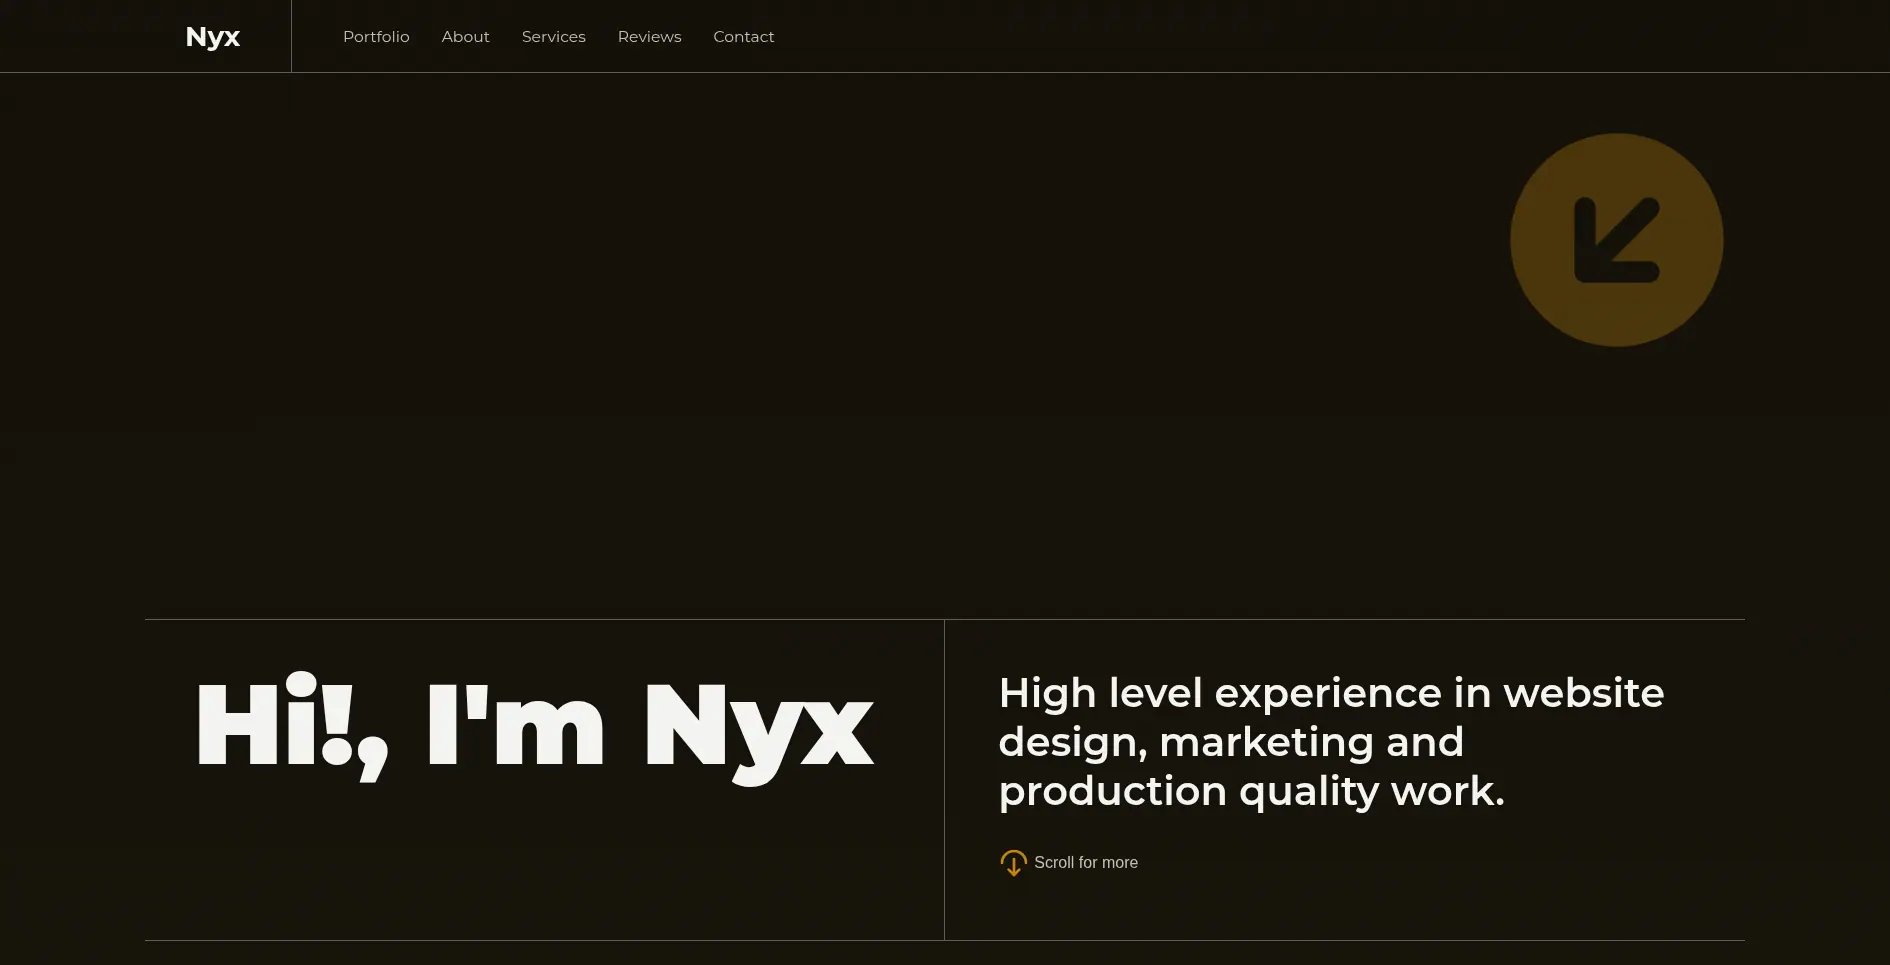
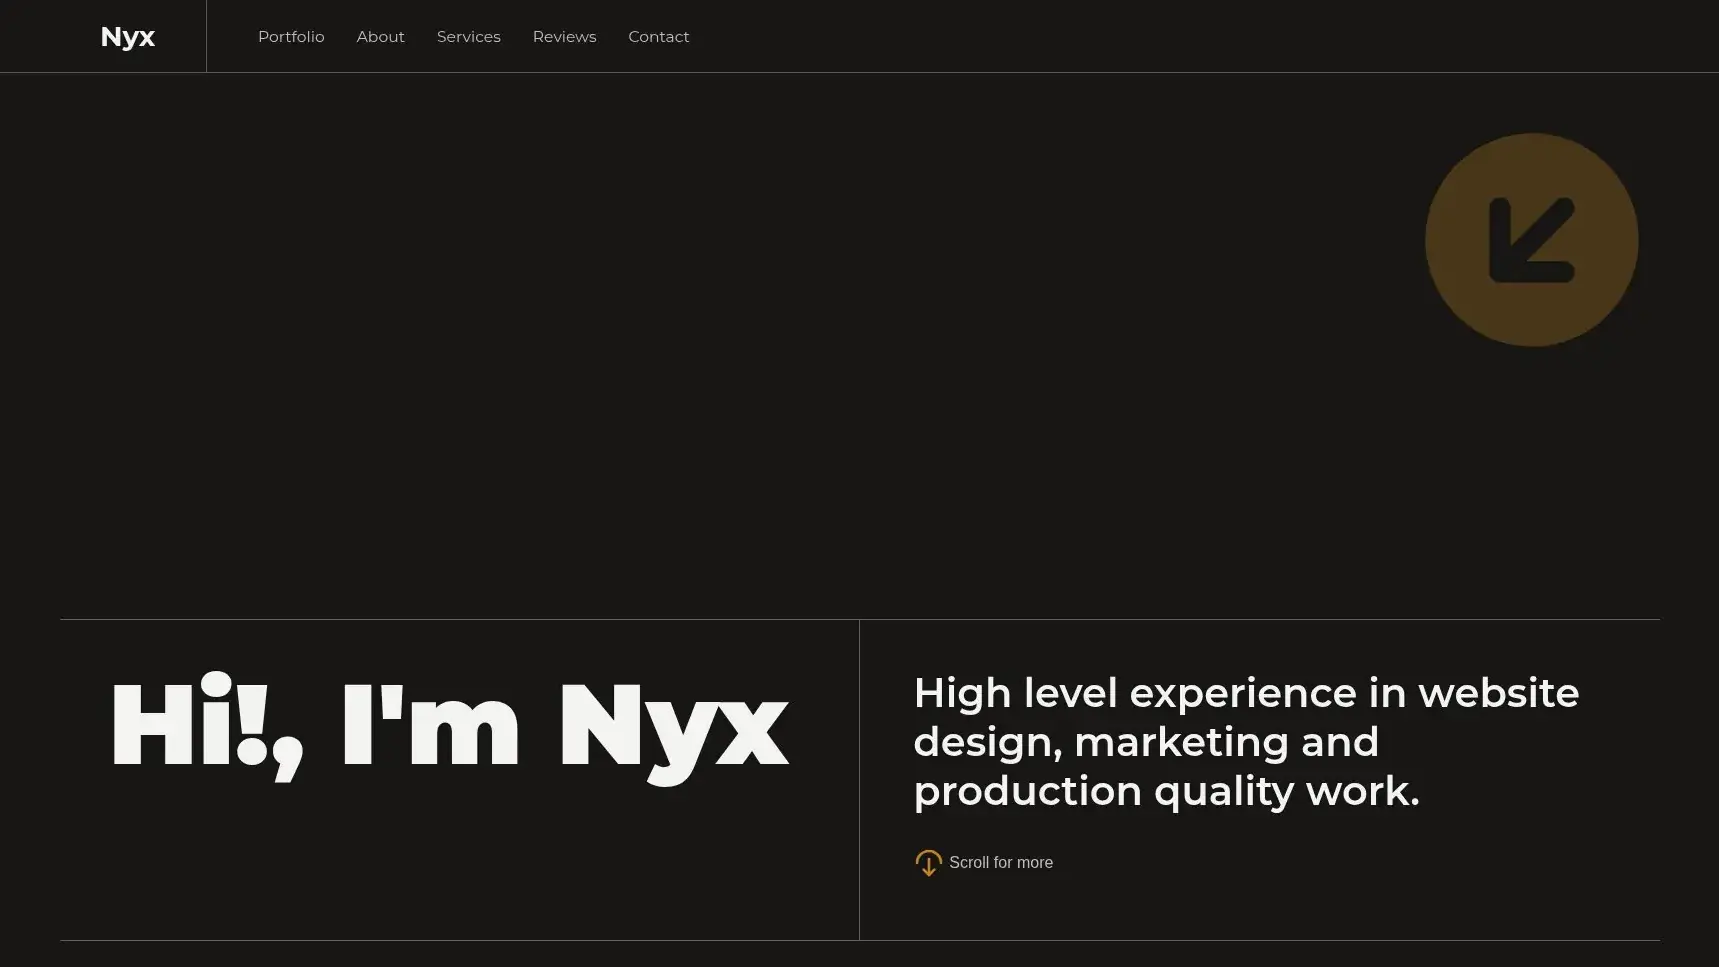
fix: revert template to website

diff --git a/src/content.config.ts b/src/content.config.ts
@@ -11,7 +11,6 @@ import {
   projectSchema,
   seoSchema,
   socialsSchema,
-  templatesSchema,
   toolsSchema,
   websitesSchema
 } from 'schema/index.ts'
@@ -38,13 +37,6 @@ const websitesCollection = defineCollection({
     base: './src/content/websites'
   }),
   schema: websitesSchema
-})
-const templatesCollection = defineCollection({
-  loader: glob({
-    pattern: '**/[^_]*.{md,mdx}',
-    base: './src/content/templates'
-  }),
-  schema: templatesSchema
 })
 const bioCollection = defineCollection({
   loader: glob({ pattern: '**/[^_]*.{md,mdx}', base: './src/content/bio' }),
@@ -77,7 +69,6 @@ export const collections = {
   hero: heroCollection,
   project: projectCollection,
   websites: websitesCollection,
-  templates: templatesCollection,
   bio: bioCollection,
   tools: toolsCollection,
   contact: contactCollection,

diff --git a/src/components/main/Hero/CarouselHero.tsx b/src/components/main/Hero/CarouselHero.tsx
@@ -49,7 +49,7 @@ export function CarouselHero({
                 />
 
                 <img
-                  className="aspect-auto w-full rounded-md object-cover opacity-80 transition-all delay-200 ease-in group-hover:opacity-100"
+                  className="aspect-16/9 w-full rounded-md object-cover opacity-90 transition-all delay-200 ease-in group-hover:opacity-100"
                   src={data.image.src}
                   alt={data.image.alt}
                   width={data.image.width}

diff --git a/src/content/bio/bio.md b/src/content/bio/bio.md
@@ -2,5 +2,5 @@
   id: 0
   slugs: "bio"
   title: "Bio"
-  description: "As a front-end developer with over 5 years of experience, I focus on building, debugging and maintaining websites. I use tools like HTML, CSS (including Tailwind and plain CSS), JavaScript, Typescript or frameworks like React and Next. \n\nWhat I like about front-end development is solving all kinds of problems, whether it is creating a smooth animated site, or fixing navigation, so users can find information quickly and easily. \n\nThat is why I believe in delivering a fast-loading, responsive website with basic search engine optimization, and a user-friendly experience with clean, well-documented code that works across all browsers. I also conduct audits and refactor existing sites to improve usability. I value clear communication and strive to deliver projects on time and within budget. \n\nWhen I’m not coding, you’ll find me exploring new design trends or experimenting with side projects that push my skills further. If you are looking for a front-end developer, let's start your project today."
+  description: "As a front-end developer, I focus in building, debugging, and maintaining responsive and accessible web applications using HTML, CSS, JavaScript, TypeScript, and modern frameworks like React and Next.js. \n\nWhat I like about front-end development is solving all kinds of problems, whether it is creating a smooth animated site, or fixing navigation, so users can find information quickly and easily. \n\nThat is why I believe in delivering a fast-loading, responsive website with basic search engine optimization, and a user-friendly experience with clean, well-documented code that works across all browsers. I also conduct audits and refactor existing sites to improve usability. I value clear communication and strive to deliver projects on time and within budget. \n\nWhen I’m not coding, you’ll find me exploring new design trends or experimenting with side projects that push my skills further. If you are looking for a front-end developer, let's start your project today."
 ---

diff --git a/src/content/websites/aether.md b/src/content/websites/aether.md
@@ -1,0 +1,18 @@
+---
+  id: 15
+  date: 2025-11-01
+  title: Aether
+  subtitle: Business portfolio
+  description: AETHER. A business portfolio built with HTML, CSS, and JavaScript serves as a digital showcase of an individual's skills, projects, and experience. It typically includes key sections such as Projects, Services, and Contact, allowing visitors to explore the creator's work, understand their expertise, and get in touch.
+  techs: 
+  - HTML
+  - CSS
+  - JAVASCRIPT
+  - CLOUDFLARE
+  image:
+    src: /images/aether.webp
+    alt: business portfolio
+    width: 1920
+    height: 1080
+  link: https://aether-demo.pages.dev
+---

diff --git a/src/content/footer/footer.md b/src/content/footer/footer.md
@@ -2,7 +2,7 @@
   id: 0
   slugs: "footer"
   title: "Codezen"
-  description: "As a front-end developer with over 5 years of experience, I focus on building, debugging and maintaining websites. I use tools like HTML, CSS, JavaScript, Typescript or frameworks like React and Next."
+  description: "Front-end developer skilled in HTML, CSS, JavaScript, and TypeScript, creating interactive and responsive user interfaces using React and Next.js."
   copy: 'Codezen'
   link: 'https://codezen.work'
 ---
